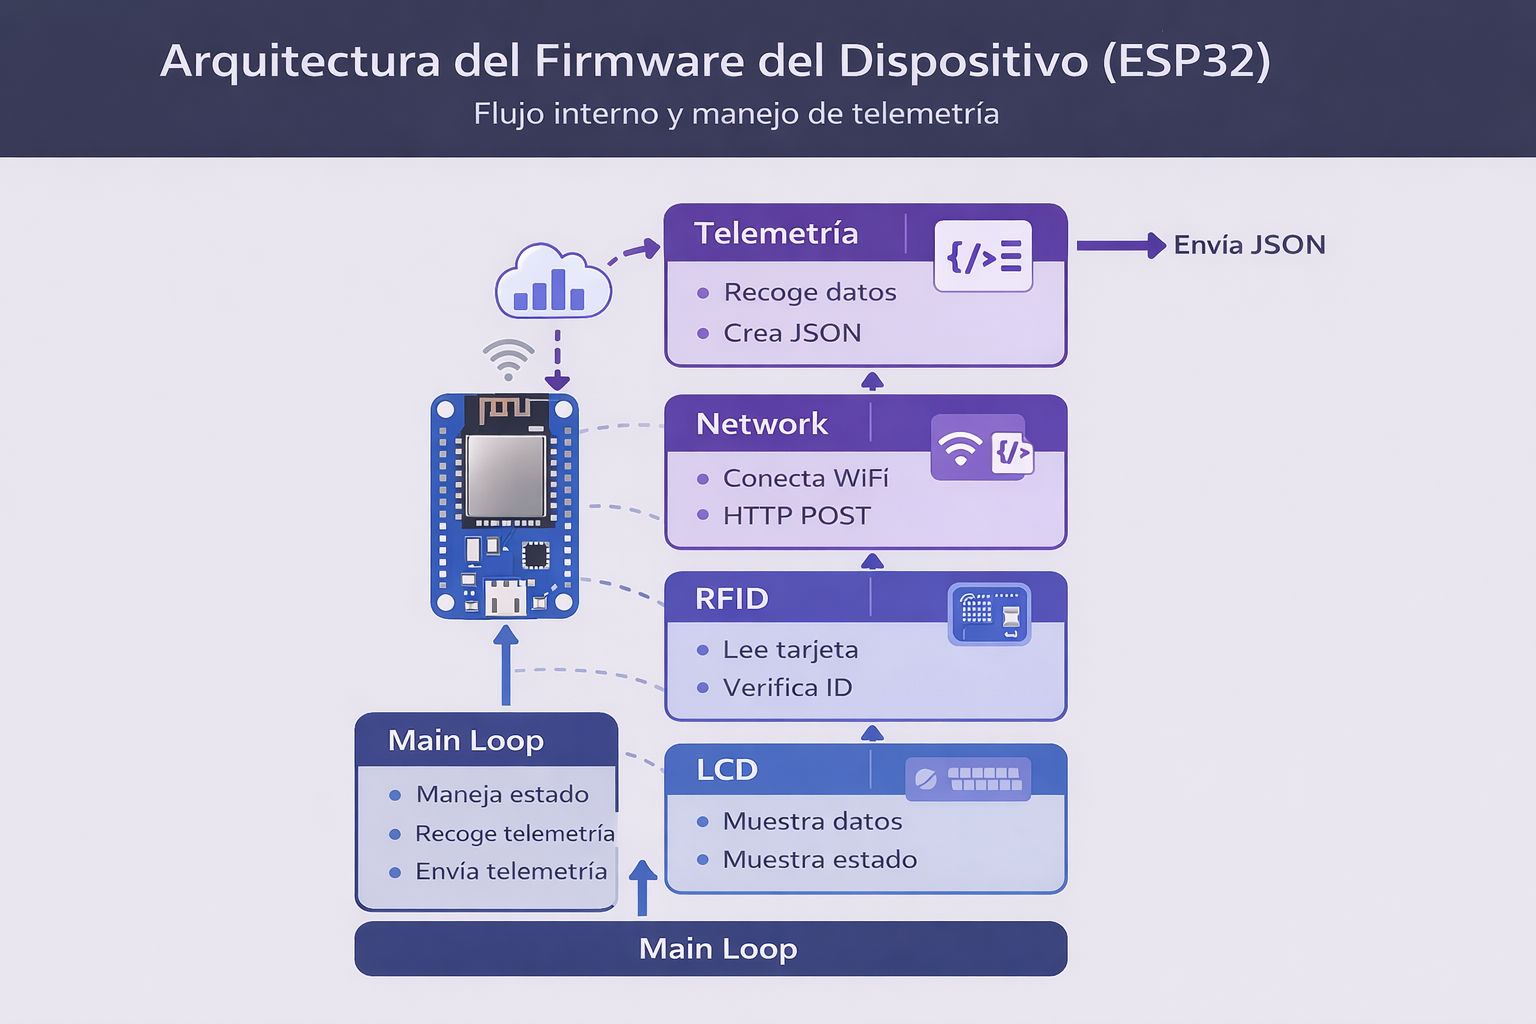
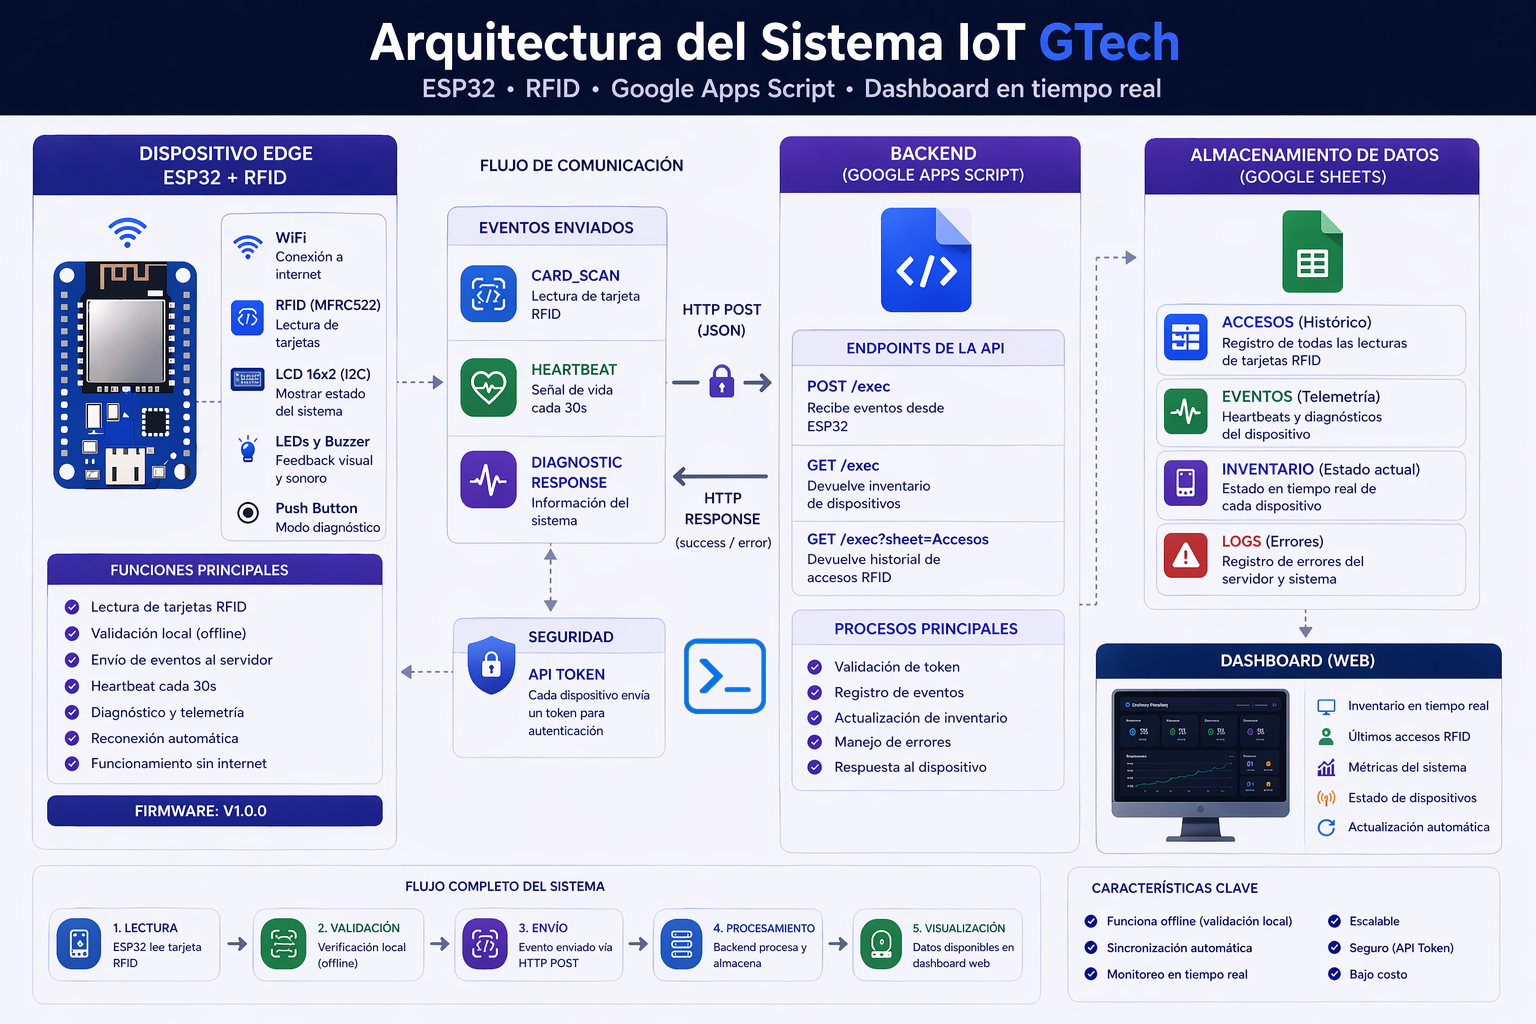
send update architecture diagrams and add real-time Wokwi simulation GIF to READMEs. Document Apps Script backend logic and security practices

diff --git a/comprensionAcademica/Código.js b/comprensionAcademica/Código.js
@@ -1,23 +1,110 @@
-function doPost(e) { // Evento necesario desde el ESP32 para activar la funcion doPost
-  try { // primera funcion de manejo del evento que intenta conectar wi fi la segunda es catch
-    var data = JSON.parse(e.postData.contents); // recibe el contenido del evento y lo guarda parseado mediante metodo de convirtiendolo en JSON crudo
-    var ss = SpreadsheetApp.getActiveSpreadsheet();// se crea la variable que trae el app script relacionado a la hoja de datos el app script se creo en este libro asi que por defecto trae ese
+// VERSION COMPRENSION COMPLETA DEL BACKEND - GTech IoT
+// Este archivo explica paso a paso como funciona el backend Serverless en Google Apps Script
 
-    if (!data.payload) data.payload = {}; //si el objeto no trae payload, entonces creala como un objeto vacio
+// Token de seguridad para escritura (POST).
+// IMPORTANTE: En el código de GitHub déjalo como "TU_TOKEN_SECRETO".
+// Cuando lo pegues en Google Apps Script, cámbialo por una clave segura real.
+var API_TOKEN = "TU_TOKEN_SECRETO"; // esta variable protege nuestra base de datos de inyecciones falsas
+
+
+function doGet(e) { // Evento necesario para que el Dashboard web pueda consultar datos por HTTP GET
+  var ss = SpreadsheetApp.getActiveSpreadsheet(); // se direcciona al sheet de google esta app se creo desde esa hoja por defecto apunta a ella
+  var tipo = e && e.parameter && e.parameter.sheet; // lee los parametros de la URL, si la URL dice ?sheet=Accesos, se guarda esa palabra en la variable tipo
+  // el uso de e && e.parameter evita que el codigo falle si no se envian parametros manejo de errores ocultos
+
+  // --- SI EL DASHBOARD PIDE ACCESOS ---
+
+  if (tipo === "Accesos") { // si la variable tipo es exactamente igual a "Accesos"
+
+    var accSheet = ss.getSheetByName("Accesos"); // busca la pestaña Accesos
+
+    if (!accSheet) { // comprueba si la variable accSheet es diferente de null o vacio, es decir si la pestaña no existe
+      return ContentService // funcion que devuelve respuesta a la maquina o dispositivo
+        .createTextOutput(JSON.stringify({ accesos: [] })) // envia un array vacio en formato JSON crudo
+        .setMimeType(ContentService.MimeType.JSON); // Content-Type o MIME Type Define el encabezado Header de la respuesta como JSON
+    }
+
+    var filas = accSheet.getDataRange().getValues(); // se guarda en esta variable el rango desde 0 hasta terminar y se obtienen los valores de ese rango (matriz de datos)
+    var accesos = []; // crea un array vacio para ir guardando los datos estructurados
+
+    // recorrer desde fila 1 saltando encabezados (la fila 0 son los titulos)
+    // columnas en excel: Fecha(0), Device ID(1), Tipo Evento(2), Card ID(3), Status(4)
+    for (var i = 1; i < filas.length; i++) { // bucle for para recorrer toda la matriz de datos
+      accesos.push({ // como funciona como objeto el push añade al final la informacion al array
+        fecha: filas[i][0], // extrae la fecha de la primera columna
+        device_id: filas[i][1], // extrae el ID del dispositivo de la segunda columna
+        card_id: filas[i][3], // extrae el ID de la tarjeta leida
+        status: filas[i][4] // extrae si el acceso fue success o unauthorized
+      });
+    }
+
+    return ContentService // envia la respuesta al Dashboard
+      .createTextOutput(JSON.stringify({ accesos: accesos })) // convierte el array de objetos a texto JSON
+      .setMimeType(ContentService.MimeType.JSON); // le indica al navegador que el contenido es un dato estructurado y no una pagina web
+  }
+
+  // --- POR DEFECTO DEVUELVE INVENTARIO ---
+  // si no se pidio la hoja de accesos, por defecto se devuelve el inventario de maquinas
+
+  var invSheet = ss.getSheetByName("Inventario"); // busca la pestaña Inventario
+
+  if (!invSheet) { // si no existe inventario devolver array vacio
+    return ContentService
+      .createTextOutput(JSON.stringify({ dispositivos: [] }))
+      .setMimeType(ContentService.MimeType.JSON);
+  }
+
+  var datos = invSheet.getDataRange().getValues(); // lee todos los datos de la pestaña inventario
+  var dispositivos = []; // crea array vacio
+
+  for (var i = 1; i < datos.length; i++) { // salta la fila 0 de titulos
+    dispositivos.push({ // llena el array con objetos
+      device_id: datos[i][0],
+      ultima_conexion: datos[i][1],
+      ip: datos[i][2],
+      rssi: datos[i][3],
+      estado: datos[i][4]
+    });
+  }
+
+  return ContentService // devuelve la lista de dispositivos al frontend (nuestro dashboard)
+    .createTextOutput(JSON.stringify({ dispositivos: dispositivos }))
+    .setMimeType(ContentService.MimeType.JSON);
+}
+
+
+function doPost(e) { // Evento necesario desde el ESP32 para activar la funcion doPost de escritura
+  try { // primera funcion de manejo del evento, intenta ejecutar el bloque, la segunda es catch si hay errores
+    
+    var data = JSON.parse(e.postData.contents); // recibe el contenido del evento y lo guarda parseado mediante metodo convirtiendolo en JSON crudo
+    
+    // --- VERIFICACION DE SEGURIDAD ---
+    // Solo permitimos la escritura si el dispositivo envía el token correcto en el JSON
+    if (data.token !== API_TOKEN) { // si el token que viene de la placa no es igual al de la variable secreta
+      return ContentService // rechaza la conexion
+        .createTextOutput(JSON.stringify({ status: "error", message: "Unauthorized access" })) // devuelve mensaje de no autorizado
+        .setMimeType(ContentService.MimeType.JSON);
+    }
+
+    var ss = SpreadsheetApp.getActiveSpreadsheet(); // se crea la variable que trae el app script relacionado a la hoja de datos
+
+    if (!data.payload) data.payload = {}; // si el objeto no trae payload, entonces creala como un objeto vacio
     // se procesan datos asi vengan incompletos, si se usan en otro lugar no causa fallo
-    var sheetNombre = (data.event_type === "CARD_SCAN") ? "Accesos" : "Eventos"; //operador ternario y
+    
+    var sheetNombre = (data.event_type === "CARD_SCAN") ? "Accesos" : "Eventos"; // operador ternario
     // si el tipo de evento es un CARD SCAN se guarda en Accesos si no en Eventos 
-    var sheet = ss.getSheetByName(sheetNombre); // pone el evento en la pestaña  correcta luego de la ejecucion de OPer Ternario
-    //funciona coherentemente con la linea anterior
+    
+    var sheet = ss.getSheetByName(sheetNombre); // pone el evento en la pestaña correcta luego de la ejecucion del Oper Ternario
+    // funciona coherentemente con la linea anterior
 
-    if (!sheet) { //comprueba si la variable sheet es diferente de null o vacio
-      sheet = ss.insertSheet(sheetNombre); // si esa funcion se cumple se insertaa en sheet el valor de la variable sheetNombre se crea la pestaña con ese nombre
-      sheet.appendRow(["Fecha","Device ID","Tipo Evento","Card ID","Status","IP","RSSI","Uptime","Firmware"]);//como funciona como objeto el append añade al final la informacion, creando titulos
-    }//separado por comas define cada colomna como cuando copiamos datos en excel
+    if (!sheet) { // comprueba si la variable sheet es diferente de null o vacio
+      sheet = ss.insertSheet(sheetNombre); // si esa funcion se cumple se inserta en sheet el valor de la variable sheetNombre se crea la pestaña con ese nombre
+      sheet.appendRow(["Fecha","Device ID","Tipo Evento","Card ID","Status","IP","RSSI","Uptime","Firmware"]); // como funciona como objeto el append añade al final la informacion, creando titulos
+    } // separado por comas define cada colomna como cuando copiamos datos en excel
 
-    sheet.appendRow([ //manejo de errores ocultos si no se encuentra el valor se reemplaza por otro valor con el operador or || para no dejar valores vacios
+    sheet.appendRow([ // manejo de errores ocultos si no se encuentra el valor se reemplaza por otro valor con el operador or || para no dejar valores vacios
       // importante en el manejo de datos data scienst
-      new Date(),       //llama la hora y fecha actual, si se ejecuta en el sitio de monitoreo, se ahorra sincronizacion de hora en cada dispositivo
+      new Date(),           // llama la hora y fecha actual, si se ejecuta en el sitio de monitoreo, se ahorra sincronizacion de hora en cada dispositivo
       data.device_id        || "UNKNOWN",
       data.event_type       || "UNKNOWN",
       data.payload.card_id  || "N/A",
@@ -29,57 +116,53 @@ function doPost(e) { // Evento necesario desde el ESP32 para activar la funcion 
     ]);
 
 
-    var invSheet = ss.getSheetByName("Inventario"); //busca la pestaña inventario
-    if (!invSheet) { //si la pestaña inventario no existe
-      invSheet = ss.insertSheet("Inventario"); //crea la pestaña
-      invSheet.appendRow(["Device ID","Ultima Conexion","IP","RSSI","Estado"]); //escribe titulos de las columnas
+    var invSheet = ss.getSheetByName("Inventario"); // busca la pestaña inventario
+    if (!invSheet) { // si la pestaña inventario no existe
+      invSheet = ss.insertSheet("Inventario"); // crea la pestaña
+      invSheet.appendRow(["Device ID","Ultima Conexion","IP","RSSI","Estado"]); // escribe titulos de las columnas
     }
 
-    var datos = invSheet.getDataRange().getValues(); //se guarda en esta variable el rango desde 0 hasta terminar y se obtienen los valores de ese rango
+    var datos = invSheet.getDataRange().getValues(); // se guarda en esta variable el rango desde 0 hasta terminar y se obtienen los valores de ese rango
     // es decir es una matriz un array con arrays internos
-    var encontrado = false; //esta variable se usa para poner en vacio la que guarda la descripcion del equipo en este caso un ESP32 pero serian las maquinas o dispositivos a monitorear
+    var encontrado = false; // esta variable se usa para poner en vacio la que guarda la descripcion del equipo en este caso un ESP32 pero serian las maquinas o dispositivos a monitorear
 
-    for (var i = 1; i < datos.length; i++) { //se empieza en la fila 1 por que 0 es titulos en sheets de google, se revisa el largo del inventario, salta siguiente fila
-      if (datos[i][0] == data.device_id) { //mira la Columna A indice 0 de la fila actual i ademas Compara ese texto con el ID que acaba de enviar el ESP32
-        invSheet.getRange(i+1,2).setValue(new Date()); //por el titulo se debe poner en la siguiente fila por eso i+1 en todos, 2 equivale a columna b ultima conexion
+    for (var i = 1; i < datos.length; i++) { // se empieza en la fila 1 por que 0 es titulos en sheets de google, se revisa el largo del inventario, salta siguiente fila
+      if (datos[i][0] == data.device_id) { // mira la Columna A indice 0 de la fila actual i ademas Compara ese texto con el ID que acaba de enviar el ESP32
+        invSheet.getRange(i+1,2).setValue(new Date()); // por el titulo se debe poner en la siguiente fila por eso i+1 en todos, 2 equivale a columna b ultima conexion
         invSheet.getRange(i+1,3).setValue(data.payload.ip   || "N/A"); // 3 equivale a columna C IP
         invSheet.getRange(i+1,4).setValue(data.payload.rssi || 0); // 4 equivale a columna D RSSI estado de la conexion fuerte,debil, etc
         invSheet.getRange(i+1,5).setValue("ONLINE"); // 5 equivale a columna E estado del dispositivo o maquina ONLINE, OFFLINE, ALARM, etc
         encontrado = true; // cambia la variable a TRue para confirmar que la informacion se encontro
-        break; //Rompe el CredentialsContainer, por que si ya se encontro el dispositivo o maquina es ineficiente seguir en la busqueda
+        break; // Rompe el iterador de busqueda, por que si ya se encontro el dispositivo o maquina es ineficiente seguir buscando
       }
     }
 
-    if (!encontrado) { //Si la variable al finalizar el for anterior no encontro el dispositivo, sigue en false y
+    if (!encontrado) { // Si la variable al finalizar el for anterior no encontro el dispositivo, sigue en false y
       // si aqui es verdadero con la negacion se ejecuta, es decir solo se ejecuta si el dispositivo o maquina no se encontro
-      invSheet.appendRow([ //se agrega a la fila en cada columna los datos del nuevo dispositivo
-        data.device_id    || "UNKNOWN", //Se agrega a cada fila el valor del nuevo dispositivo o maquina si no se pone el valor por defecto para evitar errores ocultos
-        new Date(),         //para la columna ultima conexion se ejecuta esta funcion siempre no necesita alternativa a null
+      invSheet.appendRow([ // se agrega a la fila en cada columna los datos del nuevo dispositivo
+        data.device_id    || "UNKNOWN", // Se agrega a cada fila el valor del nuevo dispositivo o maquina si no se pone el valor por defecto para evitar errores ocultos
+        new Date(),         // para la columna ultima conexion se ejecuta esta funcion siempre no necesita alternativa a null
         data.payload.ip   || "N/A",
         data.payload.rssi || 0,
-        "ONLINE"            //Si se encontro obviamente esta en linea, si no estaria apagado
+        "ONLINE"            // Si se encontro obviamente esta en linea, si no estaria apagado
       ]);
     }
 
-    return ContentService //funcion que devuelve respuesta a la maquina o dispositivo, para que sepa que el mensaje se recibio en el backend bien
-      .createTextOutput(JSON.stringify({status:"success"})) // se envia un texto en formato JSON con la palabra SUCCESS, aunque
-      // no se lee en el sketch.ino es util para la version 2 en escalabilidad
-      .setMimeType(ContentService.MimeType.JSON); //Content-Type o MIME Type  Define el encabezado Header de la respuesta como JSON
+    return ContentService // funcion que devuelve respuesta a la maquina o dispositivo, para que sepa que el mensaje se recibio en el backend bien
+      .createTextOutput(JSON.stringify({status:"success"})) // se envia un texto en formato JSON con la palabra SUCCESS
+      .setMimeType(ContentService.MimeType.JSON); // Content-Type o MIME Type Define el encabezado Header de la respuesta como JSON
       // Esto le indica al ESP32 que el contenido es un dato estructurado y no una pagina web.
 
-      //los metodos .createTextOutput y .setMimeType son del objeto ContentService y este es propio de app Scripts
-
-  } catch(error) { //segunda funcion de manejo actua con try esta se dispara si hay errores
+  } catch(error) { // segunda funcion de manejo actua con try esta se dispara si hay errores de ejecucion en javascript
     try {
       var ss = SpreadsheetApp.getActiveSpreadsheet(); // se direcciona al sheet de google esta app se creo desde esa hoja por defecto apunta a ella
       var logSheet = ss.getSheetByName("Logs") || ss.insertSheet("Logs"); // Busca la pestaña Logs, si no existe, la crea con insertSheet
-      logSheet.appendRow([new Date(), "ERROR", error.toString()]); // Agrega el error a la variable logSheet y pone la hora y fecha el error en 
-      // formato string y lo agrega a una nueva fila en la hoja de calculo
-    } catch(e){} // Silent catch Si falla el registro en la hoja de Logs, se ignora el error
-      // Esto evita un bucle infinito y asegura que el servidor siempre responda al ESP32
+      logSheet.appendRow([new Date(), "ERROR", error.toString()]); // Agrega el error a la variable logSheet y pone la hora y fecha el error en formato string y lo agrega a una nueva fila
+    } catch(e){} // Silent catch Si falla el registro en la hoja de Logs, se ignora el error para evitar un bucle infinito
+      // y asegura que el servidor siempre responda al ESP32
 
     return ContentService
       .createTextOutput(JSON.stringify({status:"error",message:error.toString()})) // Retorno de contingencia Informa al ESP32 que la operación fallo
-      .setMimeType(ContentService.MimeType.JSON); // y envia el detalle tecnico del error en formato JSON, es decir envia una respuesta de error
+      .setMimeType(ContentService.MimeType.JSON); // y envia el detalle tecnico del error en formato JSON
   }
 }

diff --git a/backend/Código.js b/backend/Código.js
@@ -1,6 +1,6 @@
 /**
  * GTech IoT Backend - Google Apps Script
- * Version 1.0.0
+ * Version 1.1.0
  *
  * Recibe eventos HTTP POST desde dispositivos ESP32
  * y los almacena en Google Sheets para monitoreo y auditoria.
@@ -13,17 +13,59 @@
  */
 
 
+// Token de seguridad para escritura (POST).
+// IMPORTANTE: En el código de GitHub déjalo como "TU_TOKEN_SECRETO".
+// Cuando lo pegues en Google Apps Script, cámbialo por una clave segura real.
+var API_TOKEN = "TU_TOKEN_SECRETO";
+
 /**
  * doGet - endpoint de lectura para el dashboard
  *
- * Devuelve el estado actual de todos los dispositivos
- * registrados en la hoja Inventario en formato JSON.
+ * Sin parametros    → devuelve inventario de dispositivos
+ * ?sheet=Accesos    → devuelve historial de accesos RFID
  *
- * @returns {TextOutput} JSON con array de dispositivos
+ * @param {Object} e - objeto de evento HTTP
+ * @returns {TextOutput} JSON con dispositivos o accesos
  */
 function doGet(e) {
 
   var ss = SpreadsheetApp.getActiveSpreadsheet();
+  var tipo = e && e.parameter && e.parameter.sheet;
+
+  // --- SI EL DASHBOARD PIDE ACCESOS ---
+
+  if (tipo === "Accesos") {
+
+    var accSheet = ss.getSheetByName("Accesos");
+
+    // si no existe la hoja devolver array vacio
+    if (!accSheet) {
+      return ContentService
+        .createTextOutput(JSON.stringify({ accesos: [] }))
+        .setMimeType(ContentService.MimeType.JSON);
+    }
+
+    var filas = accSheet.getDataRange().getValues();
+    var accesos = [];
+
+    // recorrer desde fila 2 saltando encabezados
+    // columnas: Fecha(0), Device ID(1), Tipo Evento(2), Card ID(3), Status(4)
+    for (var i = 1; i < filas.length; i++) {
+      accesos.push({
+        fecha: filas[i][0],
+        device_id: filas[i][1],
+        card_id: filas[i][3],
+        status: filas[i][4]
+      });
+    }
+
+    return ContentService
+      .createTextOutput(JSON.stringify({ accesos: accesos }))
+      .setMimeType(ContentService.MimeType.JSON);
+  }
+
+  // --- POR DEFECTO DEVUELVE INVENTARIO ---
+
   var invSheet = ss.getSheetByName("Inventario");
 
   // si no existe inventario devolver array vacio
@@ -78,6 +120,15 @@ function doPost(e) {
 
     // parsear el cuerpo del request enviado por el ESP32
     var data = JSON.parse(e.postData.contents);
+    
+    // --- VERIFICACION DE SEGURIDAD ---
+    // Solo permitimos la escritura si el dispositivo envía el token correcto
+    if (data.token !== API_TOKEN) {
+      return ContentService
+        .createTextOutput(JSON.stringify({ status: "error", message: "Unauthorized access" }))
+        .setMimeType(ContentService.MimeType.JSON);
+    }
+
     var ss = SpreadsheetApp.getActiveSpreadsheet();
 
     // proteccion: garantizar que payload exista aunque venga vacio

diff --git a/firmware/esp32-rfid/secrets.example.h b/firmware/esp32-rfid/secrets.example.h
@@ -24,6 +24,10 @@
 // Ejemplo: https://script.google.com/macros/s/AKfy.../exec
 #define SECRET_BACKEND_URL   "YOUR_GOOGLE_APPS_SCRIPT_URL"
 
+// Token de seguridad para escribir datos (doPost) en Google Sheets
+// Debe coincidir con la variable API_TOKEN en backend/Código.js
+#define SECRET_API_TOKEN     "YOUR_API_TOKEN"
+
 // --- Google Sheets ---
 // ID del spreadsheet que actua como base de datos
 // Se encuentra en la URL: docs.google.com/spreadsheets/d/TU_SHEET_ID/edit

diff --git a/README_es.md b/README_es.md
@@ -51,6 +51,16 @@ Cada 30 segundos el ESP32 envía automáticamente un evento `HEARTBEAT` al backe
 
 ---
 
+## Dashboard en vivo
+
+**[→ Abrir dashboard en vivo](https://guillermosoftwareengineer.github.io/esp32-rfid-iot-telemetry/)**
+
+![Dashboard in real time — Wokwi + GitHub Pages](diagrams/IotvDashB.gif)
+
+Monitoreo en tiempo real de los dispositivos conectados. El dashboard lee los datos desde Google Sheets a través de `doGet` y se actualiza automáticamente cada 30 segundos.
+
+---
+
 ## Tecnologías
 
 | Capa            | Tecnología              | Rol                                    |
@@ -229,6 +239,7 @@ cp firmware/esp32-rfid/secrets.example.h firmware/esp32-rfid/secrets.h
 {
   "device_id": "GTech-ESP32-001",
   "event_type": "CARD_SCAN",
+  "token": "YOUR_API_TOKEN",
   "firmware_version": "1.0.0",
   "payload": {
     "card_id": "01020304",

diff --git a/README_en.md b/README_en.md
@@ -51,6 +51,16 @@ Every 30 seconds, the ESP32 automatically sends a `HEARTBEAT` event to the backe
 
 ---
 
+## Live Dashboard
+
+**[→ Open live dashboard](https://guillermosoftwareengineer.github.io/esp32-rfid-iot-telemetry/)**
+
+![Dashboard in real time — Wokwi + GitHub Pages](diagrams/IotvDashB.gif)
+
+Real-time monitoring of connected devices. The dashboard reads from Google Sheets via `doGet` and auto-refreshes every 30 seconds.
+
+---
+
 ## Technologies
 
 | Layer | Technology | Role |
@@ -229,6 +239,7 @@ cp firmware/esp32-rfid/secrets.example.h firmware/esp32-rfid/secrets.h
 {
   "device_id": "GTech-ESP32-001",
   "event_type": "CARD_SCAN",
+  "token": "YOUR_API_TOKEN",
   "firmware_version": "1.0.0",
   "payload": {
     "card_id": "01020304",

diff --git a/README.md b/README.md
@@ -92,6 +92,15 @@ iot-rfid-esp32/
 ├── hardware/                    ← BOM and wiring diagrams
 └── .gitignore
 ```
+---
+
+## Live Dashboard
+
+**[→ Open live dashboard](https://guillermosoftwareengineer.github.io/esp32-rfid-iot-telemetry/)**
+
+![Dashboard in real time — Wokwi + GitHub Pages](diagrams/IotvDashB.gif)
+
+---
 
 ---
 
